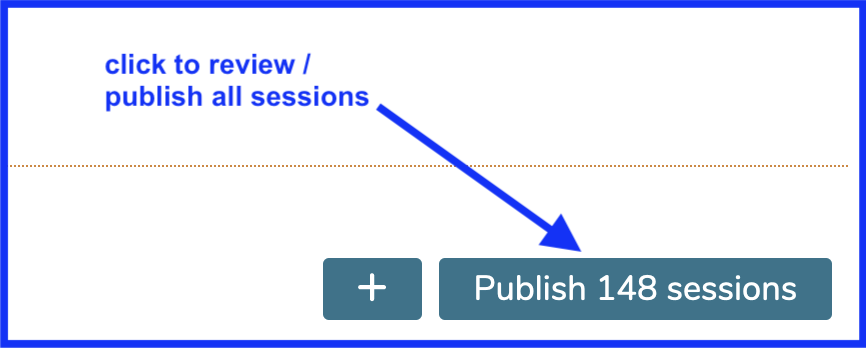
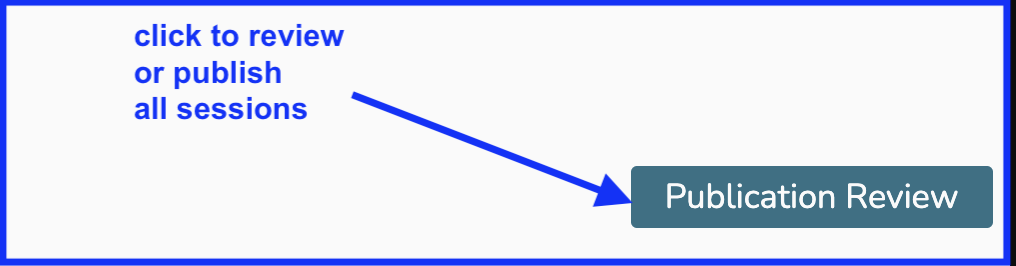
image replaced and text updated

Changed region(s): [[0.0, 0.0, 1.0, 1.0], [0.1247, 0.0902, 0.4677, 0.3609]]

diff --git a/courses-and-sessions/publishing.md b/courses-and-sessions/publishing.md
@@ -104,7 +104,7 @@ When a course is in Scheduled state and has sessions in Published and/or Schedul
 
 ![publish all](../images/publishing/publish_all.png)
 
-In the example shown above, the selected course contains a total of 148 sessions. Many of these may have already been published. After clicking as shown, there will be an opportunity to review all of the sessions before taking action on publication.
+After clicking as shown above on the "Publication Review" button, there will be an opportunity to review all of the sessions before taking action on publication on any or all of the associated sessions. Some of the session may have been published already.
 
 After clicking as shown above, the screen appears similar to the image in the screenshot below. Initially, "Sessions Requiring Review" is expanded while the other two sections "Sessions Incomplete" and "Sessions Complete" are contracted. Clicking the triangle arrows to the right of the captions will expand the selected section. In "Sessions Requiring Review", clicking the buttons labeled "Publish As-Is" or "Mark as Scheduled" will apply that setting to the entire list of Sessions below in any given review section. They can be edited individually using the provided check boxes. This same principle applies to "Sessions Complete: ready to publish". 
 
